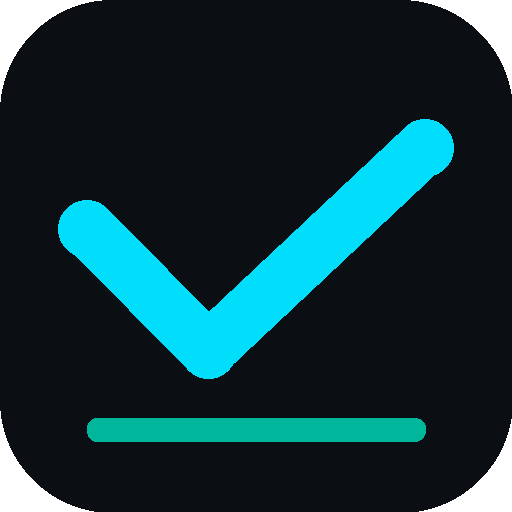
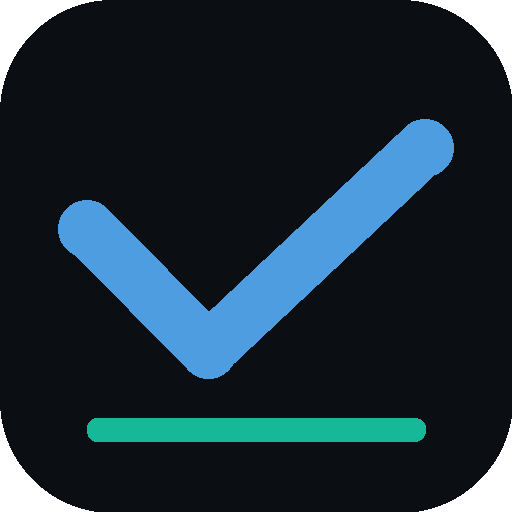
Redesign theme: light-by-default, navy-blue accent, dark toggle
Replaces the single dark ("cockpit") theme with a light default styled
after Airbus/Boeing's own corporate sites (navy-on-white, generous
whitespace, no gradients/dashed borders/neon accents), with the
previous dark theme kept as a toggle-able "night mode" - the same
day/night split real EFB apps (ForeFlight etc.) ship, not just a
stylistic choice. Choice persists per device and applies before first
paint (no flash of the wrong theme).

CSS variables restructured around semantic roles (--accent for primary
actions, --success for checked-state, plus tinted variants) defined
once in a light :root block and overridden under
:root[data-theme="dark"], rather than baking specific hex values into
individual rules.

Phase-group colors (in the per-aircraft JSON, not CSS) moved to a
single muted palette that was verified to read on both themes, rather
than the previous bright/neon set tuned for dark backgrounds only. App
icon accent colors updated to match. Manifest theme/background colors
and iOS status bar style updated for the new light default.

Reference sites checked directly (screenshots) before choosing this
direction: Airbus, Boeing, FlyByWire's own site, flightsim.to, MSFS,
X-Plane.

Changed region(s): [[0.0938, 0.2188, 0.9062, 0.75]]

diff --git a/css/styles.css b/css/styles.css
@@ -1,16 +1,21 @@
+/* Light theme (default) — clean, corporate-aviation look (Airbus/Boeing-style
+   navy on white), meant to be legible in bright daylight/ground ops. */
 :root {
-  --bg: #0b0f14;
-  --panel: #131a22;
-  --panel-raised: #1a232d;
-  --border: #263140;
-  --text: #eef3f8;
-  --text-dim: #93a3b5;
-  --text-faint: #5c6b7c;
-  --accent-pre: #00b79c;
-  --accent-dep: #00defb;
-  --accent-air: #5b8def;
-  --accent-arr: #00b79c;
-  --danger: #ff5d5d;
+  --bg: #f4f6f9;
+  --panel: #ffffff;
+  --panel-raised: #eef2f6;
+  --border: #dde3ea;
+  --text: #10203a;
+  --text-dim: #5c6b80;
+  --text-faint: #96a3b3;
+  --accent: #14477a;
+  --accent-contrast: #ffffff;
+  --accent-tint: rgba(20, 71, 122, 0.07);
+  --accent-tint-strong: rgba(20, 71, 122, 0.14);
+  --success: #0f9488;
+  --success-tint: rgba(15, 148, 136, 0.08);
+  --success-tint-strong: rgba(15, 148, 136, 0.35);
+  --danger: #c94a4a;
   --safe-top: env(safe-area-inset-top, 0px);
   --safe-bottom: env(safe-area-inset-bottom, 0px);
   --safe-left: env(safe-area-inset-left, 0px);
@@ -18,6 +23,26 @@
   --header-h: 56px;
   --progress-h: 4px;
   --footer-h: 64px;
+}
+
+/* Dark theme ("night mode") — toggled, not the default. Preserves night
+   vision / reduces glare for cockpit use after dark. */
+:root[data-theme="dark"] {
+  --bg: #0b0f14;
+  --panel: #131a22;
+  --panel-raised: #1a232d;
+  --border: #263140;
+  --text: #eef3f8;
+  --text-dim: #93a3b5;
+  --text-faint: #5c6b7c;
+  --accent: #4d9de0;
+  --accent-contrast: #06203a;
+  --accent-tint: rgba(77, 157, 224, 0.12);
+  --accent-tint-strong: rgba(77, 157, 224, 0.2);
+  --success: #17b897;
+  --success-tint: rgba(23, 184, 151, 0.1);
+  --success-tint-strong: rgba(23, 184, 151, 0.35);
+  --danger: #ff6b6b;
 }
 
 * { box-sizing: border-box; -webkit-tap-highlight-color: transparent; }
@@ -62,6 +87,7 @@ body {
   padding-right: calc(16px + var(--safe-right));
   display: flex;
   align-items: center;
+  justify-content: space-between;
   background: var(--panel);
   border-bottom: 1px solid var(--border);
   flex: 0 0 auto;
@@ -121,7 +147,7 @@ body {
   width: 5px;
   align-self: stretch;
   border-radius: 4px;
-  background: var(--card-accent, var(--accent-dep));
+  background: var(--card-accent, var(--accent));
 }
 
 .document-card-body {
@@ -184,6 +210,13 @@ body {
 .bars::after { position: absolute; top: 7px; left: 0; }
 
 .reset-icon { font-size: 22px; line-height: 1; }
+.theme-icon { font-size: 19px; line-height: 1; }
+
+#header-actions {
+  display: flex;
+  align-items: center;
+  gap: 2px;
+}
 
 #header-title {
   flex: 1;
@@ -217,7 +250,7 @@ body {
 #progress-fill {
   height: 100%;
   width: 0%;
-  background: linear-gradient(90deg, var(--accent-dep), var(--accent-pre));
+  background: var(--accent);
   transition: width 0.25s ease;
 }
 
@@ -230,8 +263,8 @@ body {
   width: 100%;
   border: none;
   border-bottom: 1px solid var(--border);
-  background: rgba(0, 222, 251, 0.1);
-  color: var(--accent-dep);
+  background: var(--accent-tint);
+  color: var(--accent);
   padding: 10px calc(14px + var(--safe-left)) 10px calc(14px + var(--safe-right));
   font-size: 13.5px;
   font-weight: 700;
@@ -239,7 +272,7 @@ body {
   flex: 0 0 auto;
 }
 #return-banner[hidden] { display: none; }
-#return-banner:active { background: rgba(0, 222, 251, 0.18); }
+#return-banner:active { background: var(--accent-tint-strong); }
 .return-banner-icon { font-size: 16px; }
 
 /* ---------- Main content ---------- */
@@ -330,13 +363,13 @@ body {
 }
 
 .item-row.checked {
-  background: rgba(0, 183, 156, 0.08);
-  border-color: rgba(0, 183, 156, 0.35);
+  background: var(--success-tint);
+  border-color: var(--success-tint-strong);
 }
 .item-row.checked .item-checkbox {
-  background: var(--accent-pre);
-  border-color: var(--accent-pre);
-  color: #06140f;
+  background: var(--success);
+  border-color: var(--success);
+  color: var(--accent-contrast);
 }
 .item-row.checked .item-challenge,
 .item-row.checked .item-response {
@@ -408,9 +441,9 @@ body {
   align-items: center;
   justify-content: center;
   gap: 8px;
-  background: rgba(0, 222, 251, 0.1);
-  border: 1px dashed var(--accent-dep);
-  color: var(--accent-dep);
+  background: var(--accent-tint);
+  border: 1px solid var(--accent-tint-strong);
+  color: var(--accent);
   border-radius: 12px;
   padding: 14px 16px;
   margin-top: 4px;
@@ -418,7 +451,7 @@ body {
   font-size: 15px;
   cursor: pointer;
 }
-.linked-reference-cta:active { background: rgba(0, 222, 251, 0.18); }
+.linked-reference-cta:active { background: var(--accent-tint-strong); }
 .linked-reference-cta .arrow { font-size: 17px; }
 
 /* ---------- Footer nav ---------- */
@@ -447,13 +480,13 @@ body {
 }
 .nav-btn:disabled { opacity: 0.35; }
 .nav-btn.primary {
-  background: var(--accent-dep);
-  color: #062730;
-  border-color: var(--accent-dep);
+  background: var(--accent);
+  color: var(--accent-contrast);
+  border-color: var(--accent);
 }
 .nav-btn.danger {
   background: var(--danger);
-  color: #2a0505;
+  color: #fff;
   border-color: var(--danger);
 }
 
@@ -564,7 +597,7 @@ body.drawer-open #phase-drawer { transform: translateX(0); }
   color: var(--text-dim);
   flex: 0 0 auto;
 }
-.phase-list-progress.done { color: var(--accent-pre); }
+.phase-list-progress.done { color: var(--success); }
 
 /* ---------- Modal ---------- */
 

diff --git a/index.html b/index.html
@@ -6,17 +6,24 @@
 <title>Flight SOP Checklists</title>
 <meta name="description" content="Interactive aircraft SOP checklists for iPad">
 
-<meta name="theme-color" content="#0b0f14">
+<meta name="theme-color" id="theme-color-meta" content="#f4f6f9">
 <link rel="manifest" href="manifest.json">
 
 <!-- iOS home screen / standalone support -->
 <meta name="apple-mobile-web-app-capable" content="yes">
-<meta name="apple-mobile-web-app-status-bar-style" content="black-translucent">
+<meta name="apple-mobile-web-app-status-bar-style" content="default">
 <meta name="apple-mobile-web-app-title" content="SOP Checklists">
 <link rel="apple-touch-icon" href="icons/icon-192.png">
 
 <link rel="icon" href="icons/icon-192.png">
 <link rel="stylesheet" href="css/styles.css">
+<script>
+  // Applied before first paint so a saved dark-mode choice doesn't flash light first.
+  try {
+    var t = localStorage.getItem("sop:theme");
+    if (t === "dark") document.documentElement.setAttribute("data-theme", "dark");
+  } catch (e) { /* storage unavailable, default light theme applies */ }
+</script>
 </head>
 <body>
 
@@ -29,6 +36,9 @@
         <div id="home-title">Flight Checklists</div>
         <div id="home-sub">Choose a checklist</div>
       </div>
+      <button id="theme-toggle-btn-home" class="icon-btn theme-toggle-btn" aria-label="Toggle light/dark theme">
+        <span class="theme-icon">&#x2600;</span>
+      </button>
     </header>
     <main id="home-main">
       <ul id="aircraft-list"></ul>
@@ -48,9 +58,14 @@
         <div id="phase-sub">&nbsp;</div>
       </div>
 
-      <button id="reset-btn" class="icon-btn" aria-label="Reset checklist for new flight">
-        <span class="reset-icon">&#x21bb;</span>
-      </button>
+      <div id="header-actions">
+        <button id="theme-toggle-btn" class="icon-btn theme-toggle-btn" aria-label="Toggle light/dark theme">
+          <span class="theme-icon">&#x2600;</span>
+        </button>
+        <button id="reset-btn" class="icon-btn" aria-label="Reset checklist for new flight">
+          <span class="reset-icon">&#x21bb;</span>
+        </button>
+      </div>
     </header>
 
     <div id="progress-track" aria-hidden="true">

diff --git a/js/app.js b/js/app.js
@@ -28,7 +28,32 @@
     resetCancelBtn: document.getElementById("reset-cancel-btn"),
     resetConfirmBtn: document.getElementById("reset-confirm-btn"),
     checklistMain: document.getElementById("checklist-main"),
+    themeToggleBtn: document.getElementById("theme-toggle-btn"),
+    themeToggleBtnHome: document.getElementById("theme-toggle-btn-home"),
+    themeColorMeta: document.getElementById("theme-color-meta"),
   };
+
+  const THEME_KEY = "sop:theme";
+  const THEME_COLOR = { light: "#f4f6f9", dark: "#0b0f14" };
+
+  function applyTheme(theme) {
+    if (theme === "dark") {
+      document.documentElement.setAttribute("data-theme", "dark");
+    } else {
+      document.documentElement.removeAttribute("data-theme");
+    }
+    document.querySelectorAll(".theme-icon").forEach((el) => {
+      el.textContent = theme === "dark" ? "☽" : "☀";
+    });
+    els.themeColorMeta.setAttribute("content", THEME_COLOR[theme] || THEME_COLOR.light);
+  }
+
+  function toggleTheme() {
+    const current = document.documentElement.getAttribute("data-theme") === "dark" ? "dark" : "light";
+    const next = current === "dark" ? "light" : "dark";
+    applyTheme(next);
+    try { localStorage.setItem(THEME_KEY, next); } catch (e) { /* storage unavailable, ignore */ }
+  }
 
   let manifest = null;
   const docCache = {};
@@ -468,10 +493,14 @@
     });
 
     window.addEventListener("hashchange", handleRoute);
+
+    els.themeToggleBtn.addEventListener("click", toggleTheme);
+    els.themeToggleBtnHome.addEventListener("click", toggleTheme);
   }
 
   async function init() {
     migrateLegacyStorage();
+    applyTheme(document.documentElement.getAttribute("data-theme") === "dark" ? "dark" : "light");
     wireEvents();
     const res = await fetch("data/aircraft/index.json");
     manifest = await res.json();

diff --git a/sw.js b/sw.js
@@ -1,4 +1,4 @@
-const CACHE_VERSION = "flight-checklists-v3";
+const CACHE_VERSION = "flight-checklists-v4";
 
 // Precached at install so the app works offline immediately after the first
 // visit. A document/aircraft added later gets cached automatically

diff --git a/README.md b/README.md
@@ -15,6 +15,10 @@ one opens it.
 - Checked-item progress is saved per document to the device (`localStorage`) so a reload
   mid-flight doesn't lose your place. Use the reset button (top right) to clear the current
   document's progress before a new flight.
+- Light theme by default (navy-on-white, in the style of Airbus/Boeing's own corporate sites)
+  for daytime/ground-ops legibility, with a dark "night mode" a tap away (sun/moon icon, top
+  right) for cockpit use after dark — the same day/night split real EFB apps like ForeFlight
+  ship. Your choice is remembered on the device.
 
 ## Content
 
